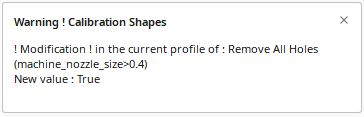
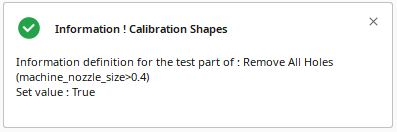
change message
Change Message Add logo

Changed region(s): [[0.0, 0.0256, 0.9973, 0.9744]]

diff --git a/CalibrationShapes.py b/CalibrationShapes.py
@@ -49,6 +49,7 @@
 #
 # V2.0.0   : Update for Cura 5.0
 # V2.0.1   : Correction on Bug 5.0 MultiFlow Test
+# V2.0.2   : Function to Add Mark removed new plugin with much more option to do that : https://github.com/5axes/NameIt
 # V2.1.0   : Modification of meshfix_union_all_remove_holes on the model and not on the part
 #          : Same for fill_outline_gaps Print Thin Walls
 #
@@ -607,7 +608,7 @@ class CalibrationShapes(QObject, Extension):
             definition_key=key + " label"
             untranslated_label=extruder_stack.getProperty(key,"label")
             translated_label=i18n_catalog.i18nc(definition_key, untranslated_label)            
-            Message(text = "! Modification ! in the current profile of : " + translated_label + "\nNew value : %s" % (str(val)), title = catalog.i18nc("@info:title", "Warning ! Calibration Shapes")).show()
+            Message(text = "! Modification ! in the current profile of : " + translated_label + "\nNew value : %s" % (str(val)), title = catalog.i18nc("@info:title", "Warning ! Calibration Shapes"), message_type = Message.MessageType.WARNING).show()
             # Define retraction_enable
             extruder.setProperty("retraction_enable", "value", True)
         
@@ -620,7 +621,7 @@ class CalibrationShapes(QObject, Extension):
             definition_key=key + " label"
             untranslated_label=extruder_stack.getProperty(key,"label")
             translated_label=i18n_catalog.i18nc(definition_key, untranslated_label)             
-            Message(text = "! Modification ! in the current profile of : " + translated_label + "\nNew value : %s" % (str(1.0)), title = catalog.i18nc("@info:title", "Warning ! Calibration Shapes")).show()
+            Message(text = "! Modification ! in the current profile of : " + translated_label + "\nNew value : %s" % (str(1.0)), title = catalog.i18nc("@info:title", "Warning ! Calibration Shapes"), message_type = Message.MessageType.WARNING).show()
             # Define retraction_amount
             extruder.setProperty("retraction_amount", "value", 1.0)
             
@@ -641,10 +642,13 @@ class CalibrationShapes(QObject, Extension):
             untranslated_label=extruder_stack.getProperty(key,"label")
             translated_label=i18n_catalog.i18nc(definition_key, untranslated_label)  
             
-            Message(text = "! Modification ! in the current profile of : " + translated_label + "\nNew value : %s" % (str(val)), title = catalog.i18nc("@info:title", "Warning ! Calibration Shapes")).show()
+            Message(text = "! Modification ! in the current profile of : " + translated_label + "\nNew value : %s" % (str(val)), title = catalog.i18nc("@info:title", "Warning ! Calibration Shapes"), message_type = Message.MessageType.WARNING).show()
             # Define adaptive_layer
             global_container_stack.setProperty("adaptive_layer_height_enabled", "value", False)
-    
+ 
+    #--------------------------------------------------------------------------  
+    # Check meshfix_union_all_remove_holes Set to true if nozzle_size > 0.4
+    #--------------------------------------------------------------------------    
     def _checkAllRemoveHoles(self, val)-> bool:
         global_container_stack = CuraApplication.getInstance().getGlobalContainerStack()
         extruder_stack = CuraApplication.getInstance().getExtruderManager().getActiveExtruderStacks()[0]        
@@ -656,13 +660,13 @@ class CalibrationShapes(QObject, Extension):
         # Logger.log("d", "In checkAdaptativ nozzle_size = %s", str(nozzle_size))
         # Logger.log("d", "In checkAdaptativ remove_holes = %s", str(remove_holes))
         
-        if (nozzle_size >  0.4) and (remove_holes == False) :
+        if (nozzle_size > 0.4) and (remove_holes == False) :
             _Remove = True
             key="meshfix_union_all_remove_holes"
             definition_key=key + " label"
             untranslated_label=extruder_stack.getProperty(key,"label")
             translated_label=i18n_catalog.i18nc(definition_key, untranslated_label)  
-            Message(text = "Information definition for the test part of : " + translated_label + "\n(machine_nozzle_size>0.4)\nSet value : %s" % (str(True)), title = catalog.i18nc("@info:title", "Warning ! Calibration Shapes")).show()
+            Message(text = "Individual definition for the calibration part of : " + translated_label + "\n(machine_nozzle_size>0.4)\nSet value : %s" % (str(True)), title = catalog.i18nc("@info:title", "Information ! Calibration Shapes"), message_type = Message.MessageType.POSITIVE).show()
             # Define adaptive_layer
             # extruder.setProperty("meshfix_union_all_remove_holes", "value", True) 
         return _Remove
@@ -682,7 +686,7 @@ class CalibrationShapes(QObject, Extension):
             definition_key=key + " label"
             untranslated_label=extruder_stack.getProperty(key,"label")
             translated_label=i18n_catalog.i18nc(definition_key, untranslated_label)            
-            Message(text = "Information definition for the test part of : " + translated_label + "\nSet value : %s" % (str(val)), title = catalog.i18nc("@info:title", "Warning ! Calibration Shapes")).show()
+            Message(text = "Individual definition for the calibration part of : " + translated_label + "\nSet value : %s" % (str(val)), title = catalog.i18nc("@info:title", "Information ! Calibration Shapes"), message_type = Message.MessageType.POSITIVE).show()
             thin_wall =  val
             # global_container_stack.setProperty("fill_outline_gaps", "value", val)
            
@@ -703,7 +707,7 @@ class CalibrationShapes(QObject, Extension):
             definition_key=key + " label"
             untranslated_label=extruder_stack.getProperty(key,"label")
             translated_label=i18n_catalog.i18nc(definition_key, untranslated_label)              
-            Message(text = "! Modification ! in the current profile of : " + translated_label + "\nNew value : %s" % (str(val)), title = catalog.i18nc("@info:title", "Warning ! Calibration Shapes")).show()
+            Message(text = "! Modification ! in the current profile of : " + translated_label + "\nNew value : %s" % (str(val)), title = catalog.i18nc("@info:title", "Warning ! Calibration Shapes"), message_type = Message.MessageType.WARNING).show()
             # Define adaptive_layer
             global_container_stack.setProperty("fill_perimeter_gaps", "value", val)
         
@@ -711,7 +715,7 @@ class CalibrationShapes(QObject, Extension):
         fill_perimeter_gaps = extruder.getProperty("fill_perimeter_gaps", "value")
         
         if fill_perimeter_gaps !=  val :
-            Message(text = "! Modification ! for the extruder definition of : " + translated_label + "\nNew value : %s" % (str(val)), title = catalog.i18nc("@info:title", "Warning ! Calibration Shapes")).show()
+            Message(text = "! Modification ! for the extruder definition of : " + translated_label + "\nNew value : %s" % (str(val)), title = catalog.i18nc("@info:title", "Warning ! Calibration Shapes"), message_type = Message.MessageType.WARNING).show()
             # Define adaptive_layer
             extruder.setProperty("fill_perimeter_gaps", "value", val)
             
